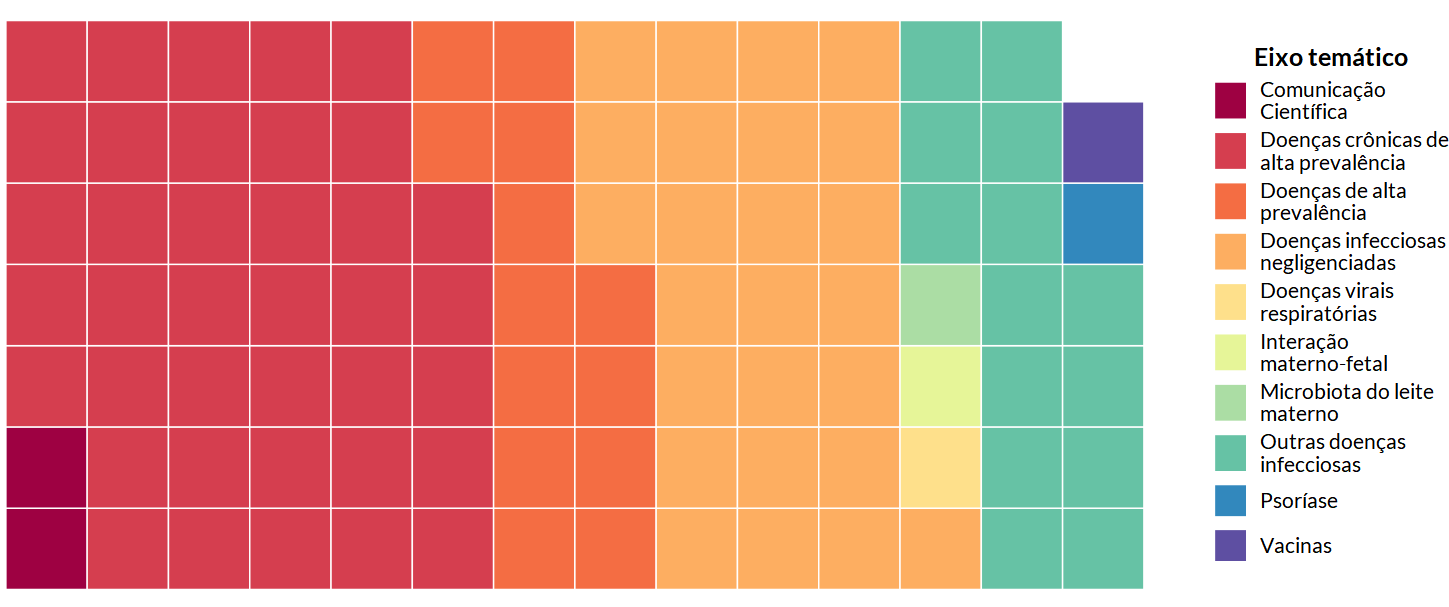
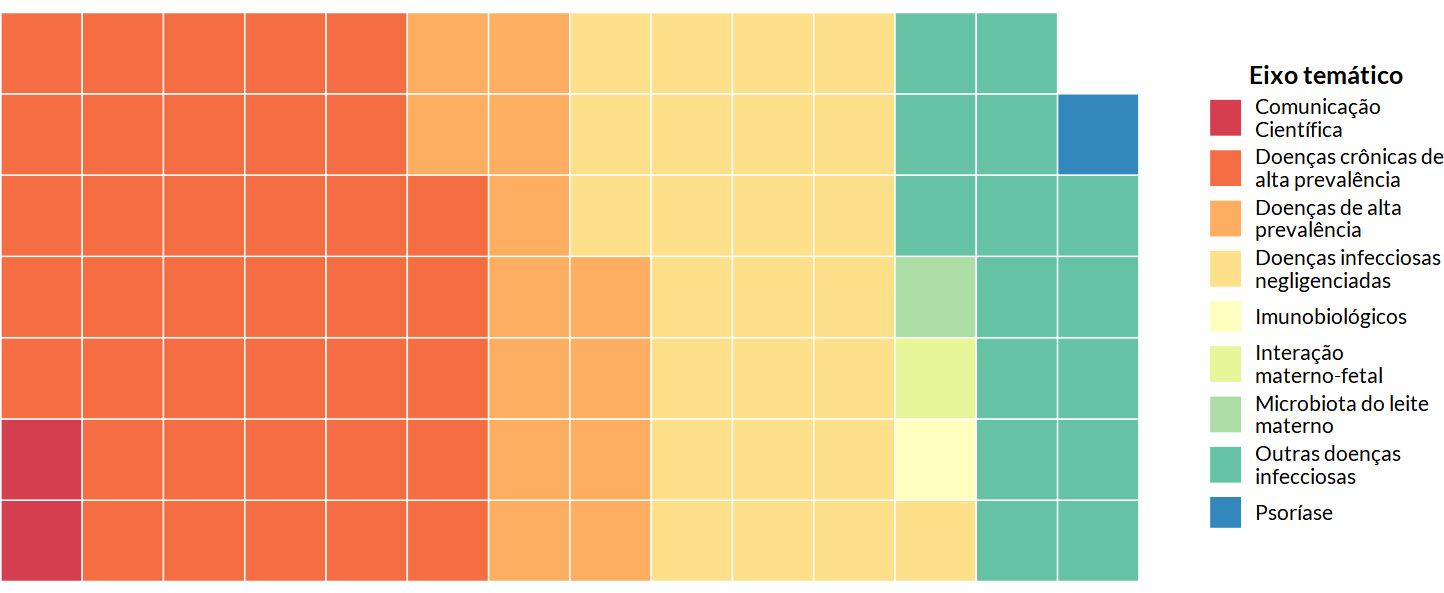
removed donut, replaced waffle and wordcloud

diff --git a/pages/info.md b/pages/info.md
@@ -8,24 +8,33 @@ header:
     image_fullwidth: "skin_header_01.png"
 ---
 
-# Sobre nós
+# Grupo de Estudos em Mucosas e Pele
+
+## Sobre nós
 
 O Grupo de Estudos em Mucosas e Pele é uma rede colaborativa de pesquisadores dedicados ao estudo das doenças que afetam mucosas e pele, com ênfase em sua patogênese, imunologia e alternativas terapêuticas. Nosso objetivo é gerar conhecimento científico de excelência e promover inovações que contribuam para a prevenção, diagnóstico e tratamento de doenças infecciosas, virais, crônicas e imunológicas, impactando positivamente a saúde pública. Atuamos em projetos multidisciplinares que abrangem desde doenças negligenciadas até condições de alta prevalência, fortalecendo a integração entre instituições nacionais e internacionais, e formando novos talentos na área por meio de parcerias acadêmicas, eventos científicos e iniciativas de capacitação.
 
-## Eixos temáticos
+## Histórico
 
-Os pesquisadores do GEMP trabalham com diversas linhas de pesquisa.
+O Grupo de Estudos em Mucosas e Pele (GEMP) tem suas raízes em diversas iniciativas científicas colaborativas que fortalecem a pesquisa na área de imunologia de mucosas e pele.
 
-<center><img src="../images/wordcloud_eixos_tematicos_especificos.png" alt="Linhas de pesquisa do GEMP" width = "80%"></center><br>
+Em 2016, foi criado o LAMIG (Latin American Mucosal Immunology Group), durante um encontro em Belo Horizonte. Associado à Society for Mucosal Immunology (SMI), o LAMIG reúne pesquisadores de países como Brasil, Argentina, Uruguai, Chile, Colômbia, México e Cuba. Suas atividades incluem cursos para estudantes, simpósios, conferências e eventos online, promovendo a troca de conhecimento na área.
 
-Assim, o grupo organiza suas atividades de pesquisa em torno de eixos temáticos que abrangem questões de grande relevância científica e impacto na saúde pública. 
+Em 2018, foi estabelecido o Laboratório Internacional Associado (LIA), resultado de uma parceria entre o Institut National de la Recherche Agronomique (INRA), na França, e a UFMG. Esse laboratório mantém projetos conjuntos voltados para o estudo de probióticos, tanto recombinantes quanto selvagens, como alternativa terapêutica para doenças inflamatórias, além de realizar encontros bienais para fortalecer a colaboração científica.
 
-<center><img src="../images/waffle_eixos_tematicos_totais.png" alt="Mapa de distribuição dos colaboradores do GEMP" width = "80%" alt="Eixos temáticos do GEMP"></center><br>
+O ano de 2020 marcou a institucionalização do Programa de Pesquisa Translacional em Mucosas (FIOMUCOSA) pela FIOCRUZ, por meio da portaria nº 24/08/2022. Esse programa reúne pesquisadores da FIOCRUZ e de outras instituições nacionais, com o objetivo de investigar a patogênese e desenvolver alternativas terapêuticas para doenças crônicas que afetam mucosas. O FIOMUCOSA organiza simpósios e encontros anuais, mantendo um calendário de atividades regulares.
 
-Esses eixos norteiam as investigações científicas, permitindo ao grupo contribuir significativamente para o avanço no entendimento das patologias e o desenvolvimento de novas terapias, se desdobrando em diversos eixos transversais.
+Mais recentemente, em 2022, foi criada a Rede Mineira de Mucosas e Pele, financiada pelo edital da FAPEMIG para redes de pesquisa. Composta por 12 instituições de Minas Gerais, a rede conduz projetos nas áreas de doenças infecciosas e crônicas que acometem mucosas e pele, promovendo avanços científicos e colaboração entre os participantes.
 
-<center><img src="../images/donut_eixos_transversais.png" alt="Mapa de distribuição dos colaboradores do GEMP" width = "80%" alt="Eixos temáticos do GEMP"></center> <br>
+## Linhas de pesquisa
 
+Os pesquisadores do GEMP trabalham com diversas linhas de pesquisa nos contextos das mucosas e pele.
+
+<center><img src="../images/wordcloud_lines.png" alt="Linhas de pesquisa do GEMP" width = "80%"></center><br>
+
+Assim, o grupo organiza suas atividades de pesquisa em torno de eixos temáticos que abrangem questões de grande relevância científica e impacto na saúde pública. Esses eixos norteiam as investigações científicas, permitindo ao grupo contribuir significativamente para o avanço no entendimento das patologias e o desenvolvimento de novas terapias.
+
+<center><img src="../images/waffle_eixos_tematicos_totais.png" width = "80%" alt="Eixos temáticos do GEMP"></center>
 
 ## Integrantes
 

diff --git a/_group/alessandra_filardy.md b/_group/alessandra_filardy.md
@@ -1,7 +1,7 @@
 ---
 subheadline:
 name: Alessandra D’Almeida Filardy
-photo: "group/alessandra_filardy.jpg"
+photo: "../images/group/alessandra_filardy.jpg"
 institution: Universidade Federal do Rio de Janeiro (UFRJ)
 group_name: Laboratório de Imunologia Celular (LIC)
 research: Mucosa Pulmonar — Mucosa Intestinal — Doença Pulmonar — Eferocitose — Imunorregulação
